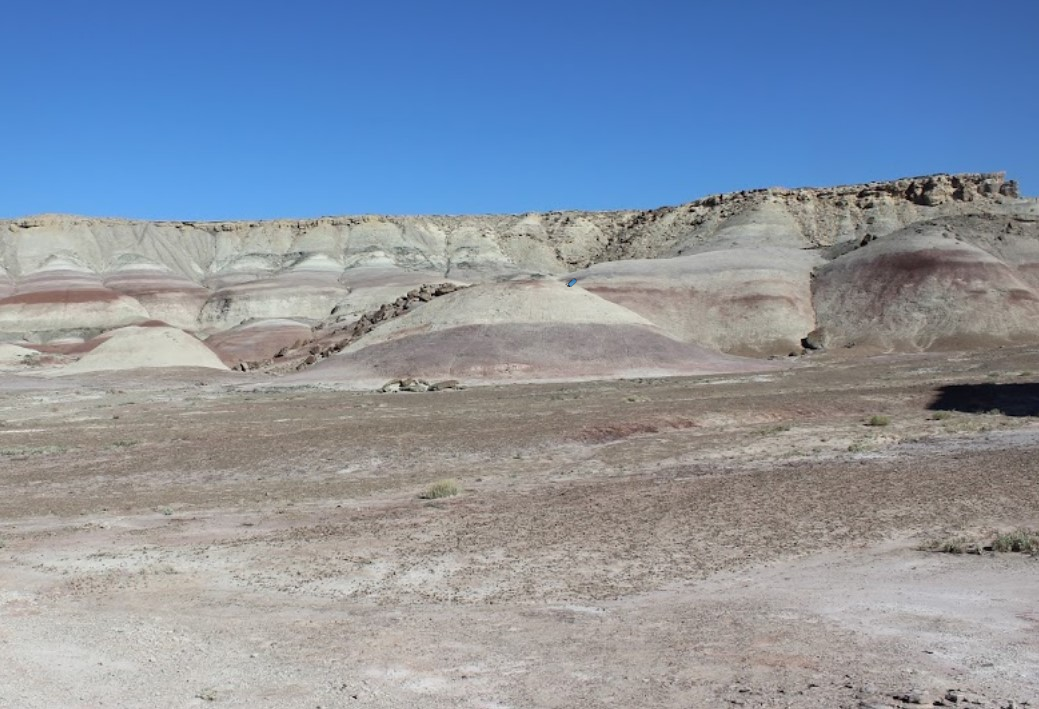
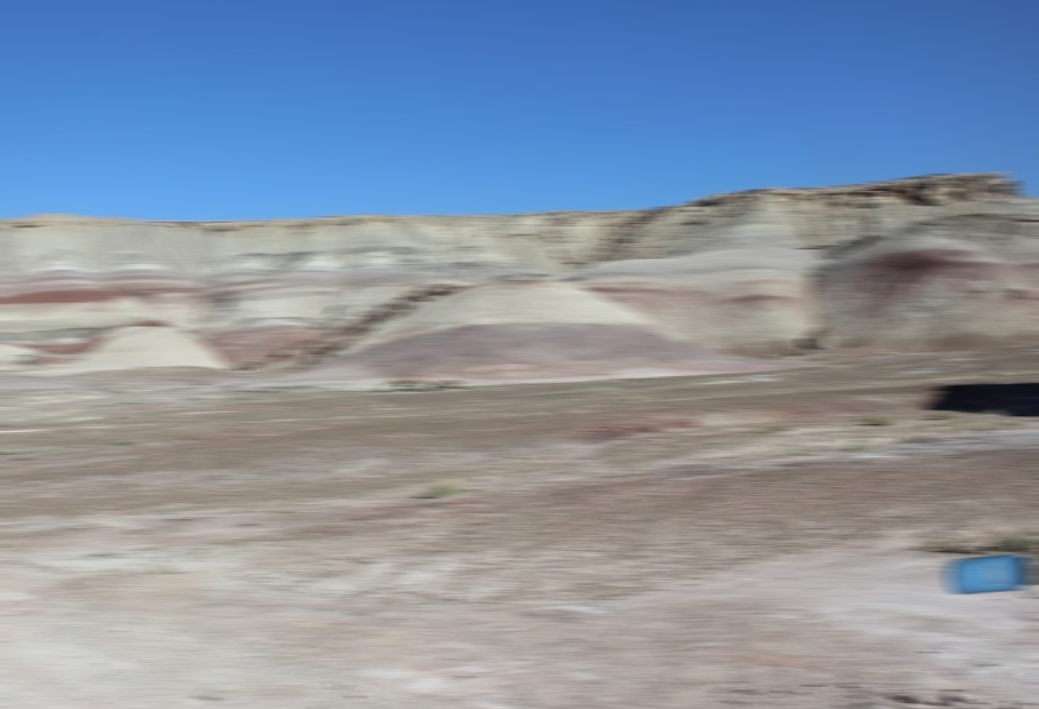
Fixed bug by pregenerating and storing random values, and then retrieving them from within the loop

diff --git a/dataset_generator.py b/dataset_generator.py
@@ -18,7 +18,7 @@ def generate_filename(folder:str, id:int, file_extension:str='.png'):
     filename:str = folder + '/000' + str(id) + file_extension
   return filename
 
-def combine_images(id:int, background:MatLike, foreground:MatLike, size_scaling:tuple[float, float], offset: tuple[int, int], angle:float, motion:int) -> MatLike:
+def combine_images(id:int, background:MatLike, foreground:MatLike, size_scaling:tuple[float, float, float], offset: tuple[int, int], angle:float, motion:int) -> MatLike:
   """
   Combines two images, accounting for their transparent qualities.
 
@@ -30,17 +30,35 @@ def combine_images(id:int, background:MatLike, foreground:MatLike, size_scaling:
     raise Exception('Background not found')
   if foreground is None:
     raise Exception('Foreground not found')
-
+  
+  # Check if inputs are valid (WIP)
+  min_size, max_size, min_h_offset = size_scaling
+  if (min_h_offset < 0) or (min_h_offset >= 1):
+    raise Exception('Invalid min_h_offset, 0 <= min_h_offset < 1')
+  if (min_size < 0) or (min_size > 1):
+    raise Exception('Invalid min_size, 0 <= min_size <= max_size')
+  if (max_size < 0) or (max_size > 1):
+    raise Exception('Invalid max_size, 0 <= min_size <= max_size')
+  if min_size > max_size:
+    raise Exception('min_size cannot be greater than max_size')
+  if (offset[0] < 0) or (offset[0] > 1):
+    raise Exception('Invalid x_offset, 0 < x_offset < 1')
+  if (offset[1] < 0) or (offset[1] > 1):
+    raise Exception('Invalid y_offset, 0 < y_offset < 1')
+  # Cap the h_offset by the min_h_offset
+  if offset[1] < min_h_offset:
+    raise Exception('h_offset cannot be less than min_h_offset')
+  
   # Dynamically resize the foreground relative to the h_offset
-  max_size, min_h_offset = size_scaling
-  size:float = (-max_size/(min_h_offset-1)) * offset[1] + ((min_h_offset*max_size)/(min_h_offset-1))
-  if size <= 0:
-    size = 0.001
+  size:float = ((min_size-max_size)/(min_h_offset-1))*offset[1] + ((max_size*min_h_offset-min_size)/(min_h_offset-1))
+  # cv::resize raises errors when the size is less than ~0.001, so I've set a hard limit to 0.01
+  if size < 0.01:
+    size = 0.01
   foreground = cv.resize(foreground, None, fx=size, fy=size)
 
   # Apply rotations to the foreground
   foreground = rotate_image(foreground, angle)
-  
+
   # Denormalise translation offsets from 0-1, to 0-width and 0-height
   w_offset:int = int(offset[0] * len(background[0]))
   h_offset:int = int(offset[1] * len(background))
@@ -143,6 +161,10 @@ def rotate_image(img:MatLike, angle:float) -> MatLike:
   return img
 
 def generate_bounding_box(id:int, background:MatLike, foreground:MatLike, class_id:int, w_offset:float, h_offset:float) -> None:
+  """
+  Generates a bounding box .txt file according to YOLOv8 PyTorch TXT format.
+  See here: https://roboflow.com/formats/yolov8-pytorch-txt
+  """
   width:float = len(foreground[0]) / len(background[0])
   center_x:float = w_offset + width/2
   height:float = len(foreground) / len(background)
@@ -156,61 +178,65 @@ def main() -> None:
   Generates a single image.
   """
   background_filename:str = generate_filename(folder='background', id=0)
-  foreground_filename:str = generate_filename(folder='hammer', id=2)
   background:MatLike = cv.imread(background_filename, cv.IMREAD_UNCHANGED)
+  foreground_filename:str = generate_filename(folder='bottle', id=0)
   foreground:MatLike = cv.imread(foreground_filename, cv.IMREAD_UNCHANGED)
 
   composite:MatLike = combine_images(
     id=0,
     background=background, 
     foreground=foreground, 
-    size_scaling=(0.1, 0.5), # (max_size, min_h_offset)
-    offset=(0.4, 0.5), # (x, y); Normalised to background width and height
+    size_scaling=(0.1, 0.1, 0.0), # (min_size, max_size, min_h_offset)
+    offset=(1.0, 1.0), # (x, y); Normalised to background width and height
     angle=0,
     motion=0
     )
   composite_filename:str = generate_filename(folder='synthetic_dataset', id=0)
   cv.imwrite(composite_filename, composite)
 
-def generate_images(object_folders:list=['bottle'], background_variants:int=1, foreground_variants:int=1, x_variants:int=1, y_variants:int=1, a_variants:int=1, m_variants:int=1) -> None:
+def generate_images(object_folders:list[str], object_transformations:list[tuple[float, float]], background_variants:int, foreground_variants:int, x_variants:int, y_variants:int, a_variants:int, m_variants:int, min_h_offset:float, max_blur:int) -> None:
   """
-  Generates o*b*f*x*y*a*m unique images to use as a synthetic dataset for YOLO model training.
+  Generates unique images to use as a synthetic dataset for YOLO model training.
   """
   id:int = 0
-  max_size:float = 0.2
+  # Generate random values (note I've done this ahead of time as the nested loop structure regenerated them unintentionally)
+  y_values:list[float] = [random.uniform(min_h_offset, 1) for _ in range(y_variants)]
+  x_values:list[float] = [random.uniform(0, 1) for _ in range(x_variants)]
+  a_values:list[float] = [random.uniform(0, 360) for _ in range(a_variants)]
+  m_values:list[int] = [random.randint(0, max_blur) for _ in range(m_variants)]
   # Get background
   for b in range(background_variants):
     background_filename:str = generate_filename(folder='background', id=b)
     background:MatLike = cv.imread(background_filename, cv.IMREAD_UNCHANGED)
   # Get object
-    for o in object_folders:
+    for o in range(len(object_folders)):
+      min_size:float = object_transformations[o][0]
+      max_size:float = object_transformations[o][1]
   # Get foreground
       for f in range(foreground_variants):
-        foreground_filename:str = generate_filename(folder=o, id=f)
+        foreground_filename:str = generate_filename(folder=object_folders[o], id=f)
         foreground:MatLike = cv.imread(foreground_filename, cv.IMREAD_UNCHANGED)
   # Get height/y offset
         for y in range(y_variants):
-          min_h_offset = 0.2 # Minimum height offset from the top (normalised to background height), for the foreground
-          y:float = random.uniform(min_h_offset, 1)
+          y_offset:float = y_values[y]
   # Get width/x offset
           for x in range(x_variants):
-            x:float = random.uniform(0, 1)
+            x_offset:float = x_values[x]
   # Get angle/a offset
             for a in range(a_variants):
-              a:float = random.uniform(0, 360)
+              angle:float = a_values[a]
   # Get angle/a offset
               for m in range(m_variants):
-                max_blur:int = 30
-                m = random.randint(0, max_blur)
+                motion:int = m_values[m]
   # Generate composite image
                 composite:MatLike = combine_images(
                   id=id,
                   background=background, 
                   foreground=foreground, 
-                  size_scaling=(max_size, min_h_offset), 
-                  offset=(x, y), # Normalised to background width and height
-                  angle=a,
-                  motion=0
+                  size_scaling=(min_size, max_size, min_h_offset), 
+                  offset=(x_offset, y_offset), # Normalised to background width and height
+                  angle=angle,
+                  motion=motion
                   )
                 composite_filename:str = generate_filename(folder='synthetic_dataset', id=id)
                 cv.imwrite(composite_filename, composite)
@@ -218,13 +244,15 @@ def generate_images(object_folders:list=['bottle'], background_variants:int=1, f
 
 if __name__=="__main__":
   # main()
-  random.seed(3)
   generate_images(
-    object_folders=['bottle', 'hammer'],
+    object_folders=['bottle','hammer'],
+    object_transformations=[(0.1, 0.5), (0.01, 0.07)], # (min_size, max_size)
     background_variants=1,
     foreground_variants=1,
-    x_variants=1,
-    y_variants=10,
-    a_variants=1,
-    m_variants=1
+    x_variants=3,
+    y_variants=3,
+    a_variants=3,
+    m_variants=3,
+    min_h_offset=0.2, # Minimum height offset from the top (normalised to background height), for the foreground
+    max_blur=30 # Generally set to <30
   )
